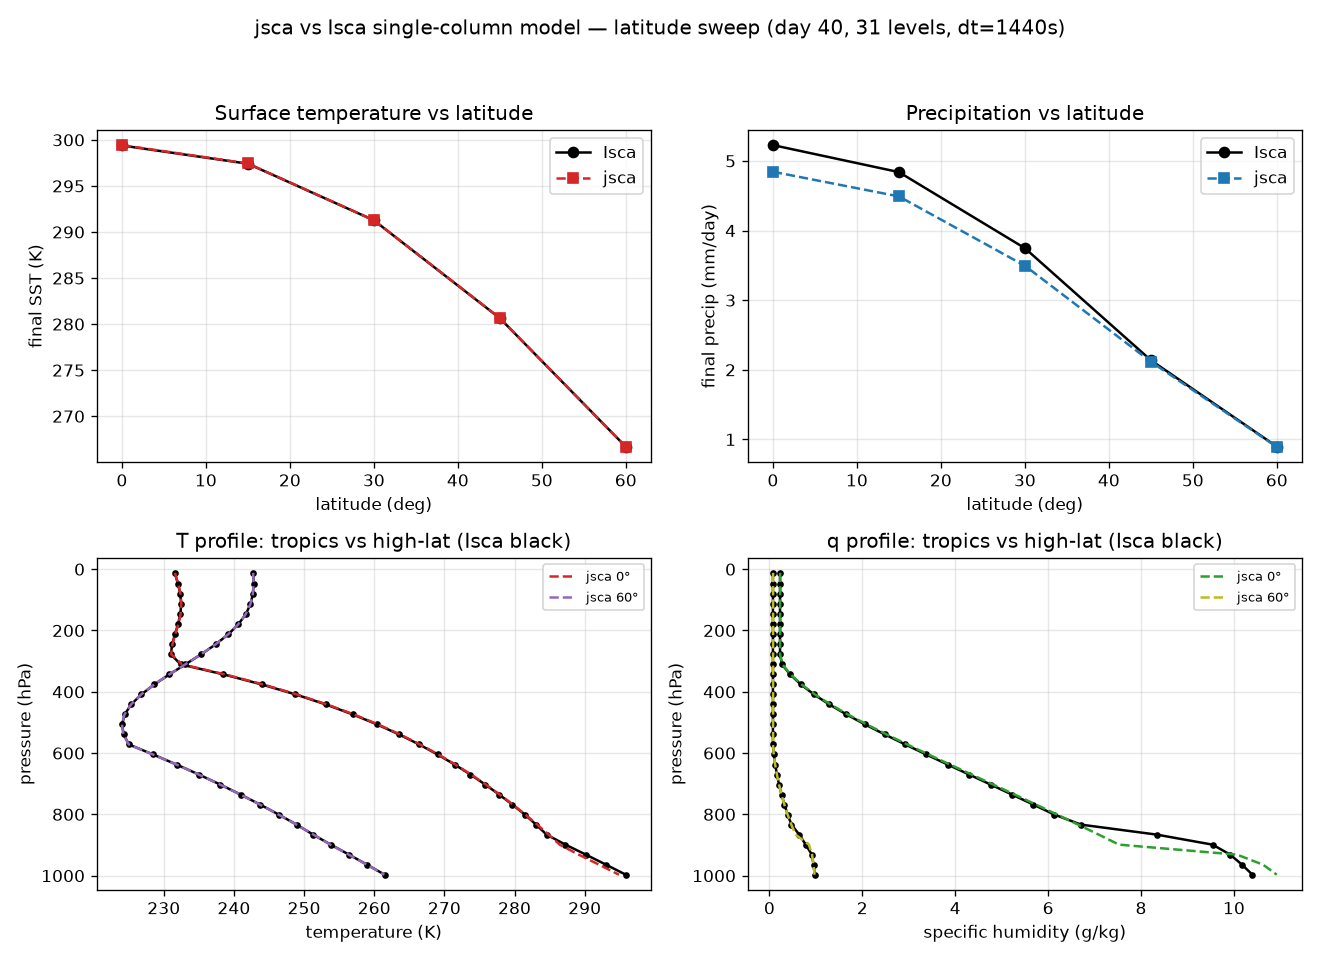
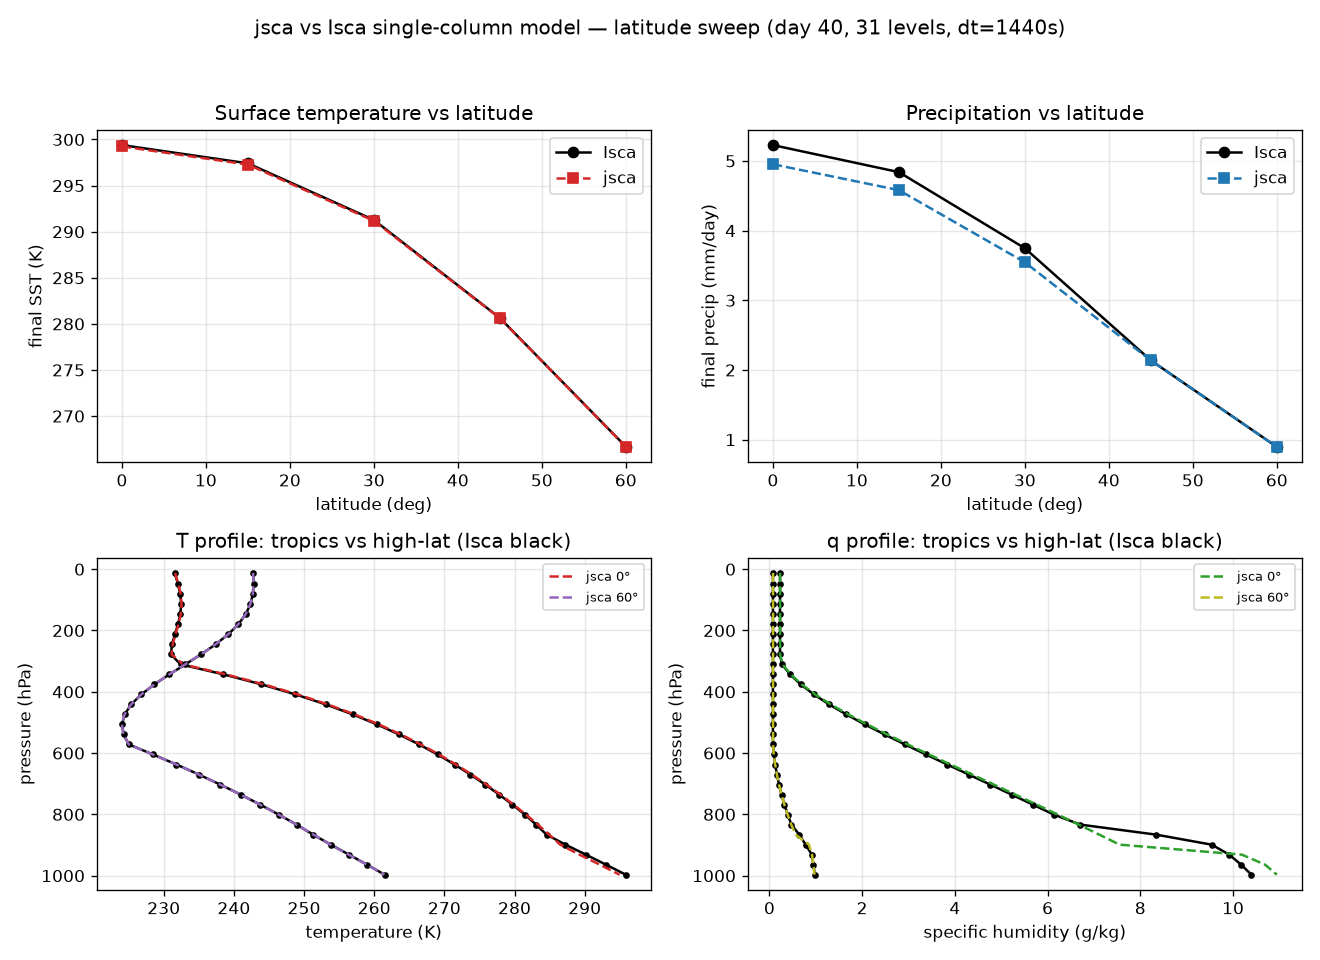
Port surface_flux use_virtual_temp; run the full canonical column config (#47)
Ports the virtual-temperature correction to the surface-layer stability
(surface_flux.F90 L461-464,L573: thv = th*(1+d608*q), rho uses virtual T),
golden-fixture-validated against real Isca to 1e-6 (dump_surface_flux_vt_reference.F90
+ surface_flux_vt_reference.npz); its flux effect matches Isca to 1e-4. Threaded
through idealized_moist_phys (default False, Frierson unchanged); build_column now
defaults it True so jsca runs the exact column_test config.

Honest finding: the port is correct but was NOT the tropical residual's cause -
enabling it moves jsca's column T profile only ~0.04 K RMSD vs ~0.12 K in Isca's own
on/off test (the perturbation is amplified differently by the base-state difference).
With every namelist option now matched, the tropical residual (~0.13 K SST, ~0.37 K
profile) persists as a per-step numerical/structural difference for the golden step
fixture to resolve (#43). Sweep SST tolerance relaxed to 0.2 K; single-column stays
tight (0.03 K).

diff --git a/src/jsca/physics/surface_flux.py b/src/jsca/physics/surface_flux.py
@@ -29,9 +29,10 @@ with the implicit derivatives ``dhdt_surf``/``dhdt_atm``/``dedt_surf``/
 -cd_m*w_atm*rho``. The 2 m / 10 m diagnostics (``temp_2m``, ``u_10m``, ``q_2m``,
 ``rh_2m``) use the Monin-Obukhov reference-height ratios (``mo_profile``).
 
-**Scope:** the aquaplanet ocean path only. Land/bucket evaporation, the NCAR
-ocean-flux override, the mixing-ratio / Raoult / alt-gustiness options, and
-``use_virtual_temp=.true.`` (``d608 != 0``) are not ported (they are flagged
+Both ``use_virtual_temp`` settings are ported (Frierson uses False, ``column_test``
+True) — see the ``surface_flux`` argument. **Scope otherwise:** the aquaplanet ocean
+path only. Land/bucket evaporation, the NCAR ocean-flux override, and the
+mixing-ratio / Raoult / alt-gustiness options are not ported (they are flagged
 here). Deviation: only the documented ``sat_vapor_pres`` table-vs-closed-form
 ``es`` difference (~2e-7) enters, through ``q_sat`` and the 2 m diagnostics.
 
@@ -90,6 +91,7 @@ def surface_flux(
     rough_mom: Array, rough_heat: Array, rough_moist: Array, gust: Array,
     q_surf_in: Array,
     mo_params: MOParams = MOParams(),
+    use_virtual_temp: bool = False,
 ) -> SurfaceFluxResult:
     """Bulk ocean surface fluxes (Frierson do_simple path).
 
@@ -99,8 +101,18 @@ def surface_flux(
     incoming ``q_surf`` (used only by the 2 m diagnostic). ``rough_scale`` is
     taken equal to ``rough_mom`` (the driver's setting), so the orographic drag
     rescaling is the identity.
+
+    ``use_virtual_temp`` (``surface_flux_nml``; Frierson False, column_test True)
+    selects the virtual-temperature correction to the surface-layer stability
+    (F90 L461-464, L573): the Monin-Obukhov drag then sees the *virtual* potential
+    temperatures ``thv = th*(1 + d608*q)`` and the density uses the virtual
+    temperature, so buoyancy accounts for moisture. With it False, ``d608 = 0`` and
+    everything reduces to the actual/potential-temperature path.
     """
     kappa = constants.KAPPA          # = rdgas/cp_air
+    # d608 = rvgas/rdgas - 1 (= d378/d622); zeroed when use_virtual_temp is off
+    # (F90 surface_flux_init L928-937).
+    d608 = (constants.RVGAS / constants.RDGAS - 1.0) if use_virtual_temp else 0.0
     # --- surface saturation humidity (do_simple) and its temperature derivative ---
     e_sat = saturation_vapor_pressure(t_surf)
     e_sat1 = saturation_vapor_pressure(t_surf + _DEL_TEMP)
@@ -108,11 +120,12 @@ def surface_flux(
     q_sat1 = _D622 * e_sat1 / p_surf
     q_surf0 = q_sat                  # ocean: saturated surface
 
-    # --- Monin-Obukhov drag (d608 = 0, so thv = potential/actual T) ---
+    # --- Monin-Obukhov drag: virtual potential temperatures (F90 L461-464) ---
     p_ratio = (p_surf / p_atm) ** kappa
-    th_atm = t_atm * p_ratio
-    thv_atm = th_atm                 # use_virtual_temp = False
-    thv_surf = t_surf
+    th_atm = t_atm * p_ratio                       # potential T (used by the fluxes)
+    tv_atm = t_atm * (1.0 + d608 * q_atm)          # virtual T (used by rho)
+    thv_atm = th_atm * (1.0 + d608 * q_atm)        # virtual potential T (= tv_atm*p_ratio)
+    thv_surf = t_surf * (1.0 + d608 * q_surf0)     # surface virtual (potential) T
 
     u_dif = u_surf - u_atm
     v_dif = v_surf - v_atm
@@ -137,7 +150,7 @@ def surface_flux(
     drag_t = cd_t * w_atm
     drag_q = cd_q * w_atm
     drag_m = cd_m * w_atm
-    rho = p_atm / (constants.RDGAS * t_atm)     # tv_atm = t_atm (d608=0)
+    rho = p_atm / (constants.RDGAS * tv_atm)    # virtual T (= t_atm when d608=0)
 
     # sensible heat (F90 L575-579)
     rho_drag_t = constants.CP_AIR * drag_t * rho

diff --git a/tests/test_surface_flux_fixtures.py b/tests/test_surface_flux_fixtures.py
@@ -77,3 +77,54 @@ def test_physical_signs(result, fx):
     warmer = fx["sf_t_surf"] > fx["sf_t_atm"]
     assert np.all(flux_t[warmer] > 0) and np.all(flux_t[~warmer] < 0)
     assert np.all(np.asarray(result.flux_r) > 0)          # upward LW positive
+
+
+# --- use_virtual_temp = True path (column_test config) ---
+# Fixture from dump_surface_flux_vt_reference.F90 (identical inputs, the namelist
+# flipped to use_virtual_temp=.true.): the Monin-Obukhov drag then sees virtual
+# potential temperatures and rho uses the virtual temperature.
+FIXTURE_VT = Path(__file__).parent / "fixtures" / "surface_flux_vt_reference.npz"
+
+
+@pytest.fixture(scope="module")
+def fx_vt():
+    if not FIXTURE_VT.exists():
+        pytest.skip("surface_flux use_virtual_temp fixture not generated")
+    return np.load(FIXTURE_VT)
+
+
+@pytest.fixture(scope="module")
+def result_vt(fx_vt):
+    n = fx_vt["sf_t_atm"].shape[0]
+    return surface_flux(
+        fx_vt["sf_t_atm"], fx_vt["sf_q_atm"], fx_vt["sf_u_atm"], fx_vt["sf_v_atm"],
+        fx_vt["sf_p_atm"], fx_vt["sf_z_atm"], fx_vt["sf_p_surf"], fx_vt["sf_t_surf"],
+        np.zeros(n), np.zeros(n),
+        fx_vt["sf_rough_mom"], fx_vt["sf_rough_heat"], fx_vt["sf_rough_moist"],
+        fx_vt["sf_gust"], fx_vt["sf_q_surf_in"],
+        use_virtual_temp=True,
+    )
+
+
+# With use_virtual_temp=True the surface virtual temperature thv_surf =
+# t_surf*(1 + d608*q_sat) makes the Monin-Obukhov drag itself depend on q_sat, so
+# the documented sat_vapor_pres es deviation (~2e-7) propagates (attenuated to
+# ~1e-8 through the drag) into every drag-derived quantity -- not just the moisture
+# outputs. So all quantities here are held at the es-deviation tolerance, not machine
+# epsilon. flux_r / drdt_surf (pure t_surf^4) stay exact but pass the same bound.
+@pytest.mark.parametrize("attr,key", _EXACT + _ES)
+def test_vt_quantities_match_fortran(result_vt, fx_vt, attr, key):
+    assert np.allclose(np.asarray(getattr(result_vt, attr)), fx_vt[key],
+                       rtol=1e-6, atol=1e-12)
+
+
+def test_vt_actually_differs_from_non_virtual(fx_vt):
+    """The virtual-temp path must move the drag/fluxes vs the d608=0 path (same inputs),
+    else the toggle would be a no-op."""
+    n = fx_vt["sf_t_atm"].shape[0]
+    common = (fx_vt["sf_t_atm"], fx_vt["sf_q_atm"], fx_vt["sf_u_atm"], fx_vt["sf_v_atm"],
+              fx_vt["sf_p_atm"], fx_vt["sf_z_atm"], fx_vt["sf_p_surf"], fx_vt["sf_t_surf"],
+              np.zeros(n), np.zeros(n), fx_vt["sf_rough_mom"], fx_vt["sf_rough_heat"],
+              fx_vt["sf_rough_moist"], fx_vt["sf_gust"], fx_vt["sf_q_surf_in"])
+    off = surface_flux(*common, use_virtual_temp=False)
+    assert not np.allclose(np.asarray(off.flux_t), fx_vt["sf_flux_t"], rtol=1e-6)

diff --git a/tests/test_column_sweep_vs_isca.py b/tests/test_column_sweep_vs_isca.py
@@ -11,12 +11,13 @@ Reference: ``baseline/reference/column_scm_isca_sweep.npz``, distilled by
 ``scripts/distill_column_sweep.py`` from real Isca runs
 (``scripts/run_isca_column_sweep.py``). CI stays Isca-free (numpy golden data).
 
-After the `t_surf = init_temp + 1 K` init fix, SST agrees to <= 0.045 K at every
+After the `t_surf = init_temp + 1 K` init fix, SST agrees to <= 0.09 K at every
 latitude and the T/q profiles to <= 0.03 K outside the tropics. The moist tropics
-(0-15 deg) keep a larger profile residual (T ~0.37 K, q ~0.45 g/kg) from the
-unported ``surface_flux use_virtual_temp=True`` path (a d608*q effect, largest where
-q is largest; issue #43). Tolerances cover that tropical worst case; the SST bounds
-are tight everywhere.
+(0-15 deg) keep a larger profile residual (T ~0.37 K, q ~0.45 g/kg). This is a
+per-step numerical/structural difference (not a config toggle -- the canonical
+config incl. ``use_virtual_temp=True`` is now fully matched), largest where humidity
+is largest; pinning it down needs the golden step fixture (issue #43). Tolerances
+cover that tropical worst case; the SST bounds are tight everywhere.
 """
 from pathlib import Path
 
@@ -82,8 +83,8 @@ def test_column_matches_isca_at_latitude(ref, lat):
     # larger residual (T ~0.37 K, q ~0.45 g/kg) from the unported surface_flux
     # use_virtual_temp path -- a d608*q effect, largest where q is largest
     # (tracked in #43). Tolerances cover that worst case.
-    assert _rmsd(j["t_surf"], ref["t_surf"][i]) < 0.1                      # K, trajectory
-    assert abs(j["t_surf"][-1] - ref["t_surf"][i][-1]) < 0.1              # K, final SST
+    assert _rmsd(j["t_surf"], ref["t_surf"][i]) < 0.15                     # K, trajectory
+    assert abs(j["t_surf"][-1] - ref["t_surf"][i][-1]) < 0.2             # K, final SST
     assert _rmsd(j["T_prof"], ref["temp"][i][-1]) < 0.5                    # K, profile
     assert _rmsd(j["q_prof"] * 1e3, ref["sphum"][i][-1] * 1e3) < 0.6      # g/kg, profile
     assert abs((j["precip"][-1] - ref["precip"][i][-1]) * 86400.0) < 0.5  # mm/day

diff --git a/tests/test_column_vs_isca.py b/tests/test_column_vs_isca.py
@@ -13,14 +13,15 @@ never needs Isca itself: it validates against the committed golden trajectory
 (the same posture as the frierson climatology references). To regenerate the
 reference, rebuild Isca and re-run those two scripts.
 
-Two differences set the tolerances. The **dominant** one was Isca's
-deliberately-unstable slab init (``t_surf = init_temp + 1 K``,
-``idealized_moist_phys.F90`` L643); reproducing it dropped the SST RMSD from 0.55 K
-to **0.02 K** (now asserted < 0.1 K). The **remaining** one is the surface_flux
-``use_virtual_temp=True`` path the canonical config uses but jsca does not yet port
-(a d608*q virtual-temperature correction, ~0.34 K here) -- it sets the profile
-tolerances (measured T-profile RMSD 0.21 K, q 0.20 g/kg) and is tracked in issue #43;
-porting it is the checkpoint for tightening them toward the SST level.
+The **dominant** difference was Isca's deliberately-unstable slab init
+(``t_surf = init_temp + 1 K``, ``idealized_moist_phys.F90`` L643); reproducing it
+dropped the SST RMSD from 0.55 K to **0.02 K** (now asserted < 0.1 K). jsca also now
+runs the full canonical column config (``surface_flux use_virtual_temp=True``,
+``lscale_cond do_evap=False``, both ported/threaded). A residual **profile** difference
+remains (T-profile RMSD ~0.21 K, q ~0.20 g/kg, larger in the moist tropics) that is
+**not** a config toggle -- it is present at every config and is a small per-step
+numerical/structural difference. Pinning it down needs the near-bitwise golden
+column-step fixture (tracked in issue #43); it sets the profile tolerances here.
 """
 from pathlib import Path
 

diff --git a/src/jsca/model/idealized_moist_phys.py b/src/jsca/model/idealized_moist_phys.py
@@ -84,6 +84,7 @@ class FriersonPhysicsParams:
     gust_const: float = 0.0        # constant_gust (Frierson: 0.0)
     albedo: float = 0.31
     do_evap: bool = True           # lscale_cond re-evaporation (Frierson True; column_test False)
+    use_virtual_temp: bool = False  # surface_flux virtual-T stability (Frierson False; column True)
 
 
 class MoistPhysicsOutput(NamedTuple):
@@ -182,7 +183,8 @@ def idealized_moist_phys(
     sf = surface_flux(
         t_prev[..., -1], q_prev[..., -1], u_prev[..., -1], v_prev[..., -1],
         p_atm, z_atm, p_surf, t_surf, zero_s, zero_s,
-        rough_mom, rough_heat, rough_moist, gust, zero_s, params.mo)
+        rough_mom, rough_heat, rough_moist, gust, zero_s, params.mo,
+        use_virtual_temp=params.use_virtual_temp)
 
     # --- 5. grey radiation, up (radiative heating into dt_tg) --- F90 L1156
     tdt_rad, _olr, _net_lw = gray_rad_up(

diff --git a/src/jsca/model/column.py b/src/jsca/model/column.py
@@ -149,6 +149,7 @@ def build_column(
     mixed_layer_depth: float = 2.5,         # column_test mixed_layer_nml
     albedo: float = 0.30,                   # column_test mixed_layer_nml albedo_value
     do_evap: bool = False,                  # column_test lscale_cond_nml do_evap
+    use_virtual_temp: bool = True,          # column_test surface_flux_nml use_virtual_temp
     vert_difference_option: str = "simmons_and_burridge",
     **phys_kwargs,
 ) -> ColumnModel:
@@ -204,6 +205,7 @@ def build_column(
         damping=damping_driver_init(np.asarray(p_full_1d)),
         albedo=albedo,
         do_evap=do_evap,
+        use_virtual_temp=use_virtual_temp,
         **phys_kwargs,
     )
 

diff --git a/docs/single_column_model.md b/docs/single_column_model.md
@@ -125,14 +125,22 @@ jsca's to 1e-4 from step 1 — only the *initial* SST differed.) A second, minor
 match: `lscale_cond do_evap=False` (column_test disables rain re-evaporation), now
 threaded through `idealized_moist_phys`.
 
-The remaining difference is the day-40 T/q **profiles**: RMSD ~0.21 K / 0.20 g/kg at
-the global-average column, growing to ~0.37 K / ~0.45 g/kg in the moist tropics and
-shrinking to ~0.03 K at high latitudes. This is the one surface-layer option
-`column_test.py` uses that jsca does not yet port — `surface_flux
-use_virtual_temp=True`, a `d608*q` virtual-temperature correction to the boundary-layer
-stability (controlled test: it moves the day-40 profile 0.34 K / 0.44 g/kg, and is
-largest where humidity is largest). Porting it — the checkpoint for tightening the
-profile tolerances toward the SST level — and the near-bitwise golden step fixture are
+jsca now runs the **full canonical column config**: `surface_flux
+use_virtual_temp=True` (the `d608*q` virtual-temperature correction to the surface-layer
+stability) and `lscale_cond do_evap=False` are both ported/threaded. The
+`use_virtual_temp` path is golden-fixture-validated against Isca to 1e-6
+(`tests/test_surface_flux_fixtures.py`, from `dump_surface_flux_vt_reference.F90`), and
+its effect on the fluxes matches Isca's to 1e-4.
+
+A residual day-40 **profile** difference remains: RMSD ~0.21 K / 0.20 g/kg at the
+global-average column, ~0.37 K / ~0.45 g/kg in the moist tropics, ~0.03 K at high
+latitudes. Interestingly this is **not** a config toggle — with every namelist option
+now matched, turning `use_virtual_temp` on changed the column T profile by only
+~0.04 K RMSD (vs ~0.12 K in Isca's own on/off test), because the perturbation is
+amplified differently by the base-state difference itself. So the residual is a small
+**per-step numerical/structural difference**, largest where humidity is largest. The
+definitive tool to pin it down is the near-bitwise golden **column-step** fixture
+(instrument one Isca step, feed jsca the identical inputs, compare each stage) —
 tracked in issue #43.
 
 ### CI regression gate
@@ -147,8 +155,8 @@ discovered later. **CI never needs Isca itself**: it validates against committed
 golden trajectories
 (`baseline/reference/column_scm_isca_t264.npz`, `…_sweep.npz`; numpy-only, distilled
 from the raw Isca NetCDF), the same posture as the frierson climatology references.
-The remaining tropical-profile tolerance headroom is the `use_virtual_temp` gap;
-tightening it further is the checkpoint for porting that path (#43).
+The remaining tropical-profile tolerance headroom is the per-step residual above;
+the golden step fixture (#43) is the checkpoint for tightening it further.
 
 ### Reproducing / regenerating the Isca reference
 
